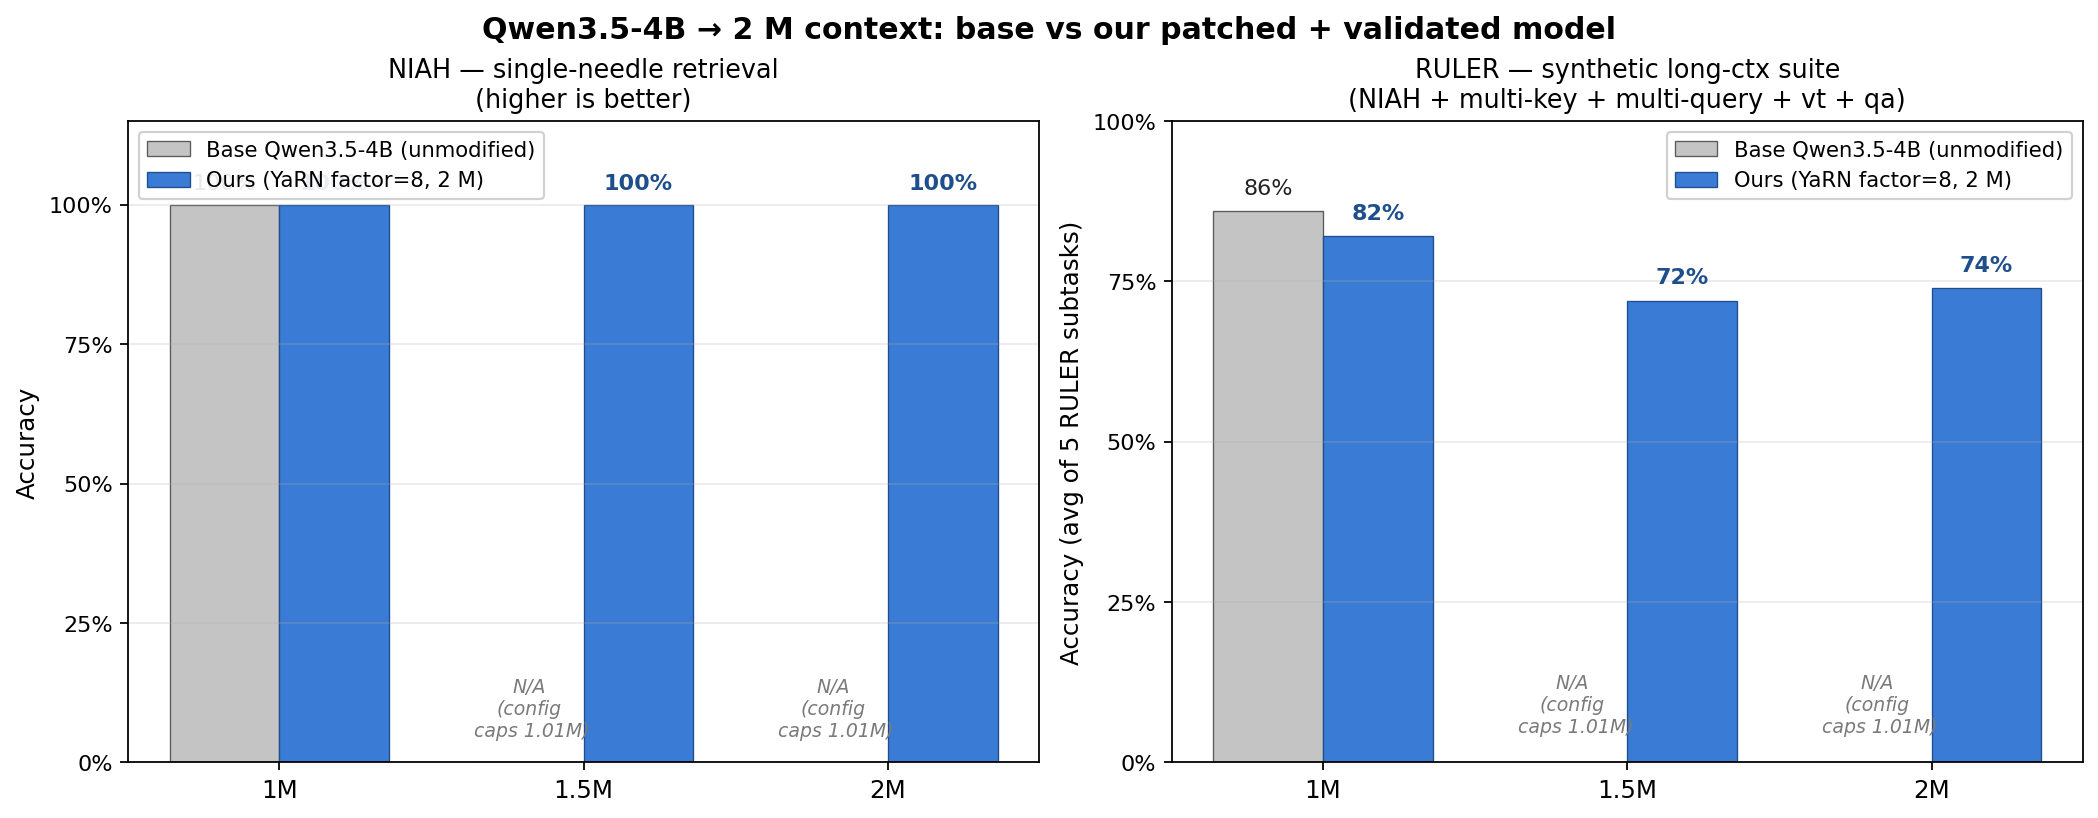
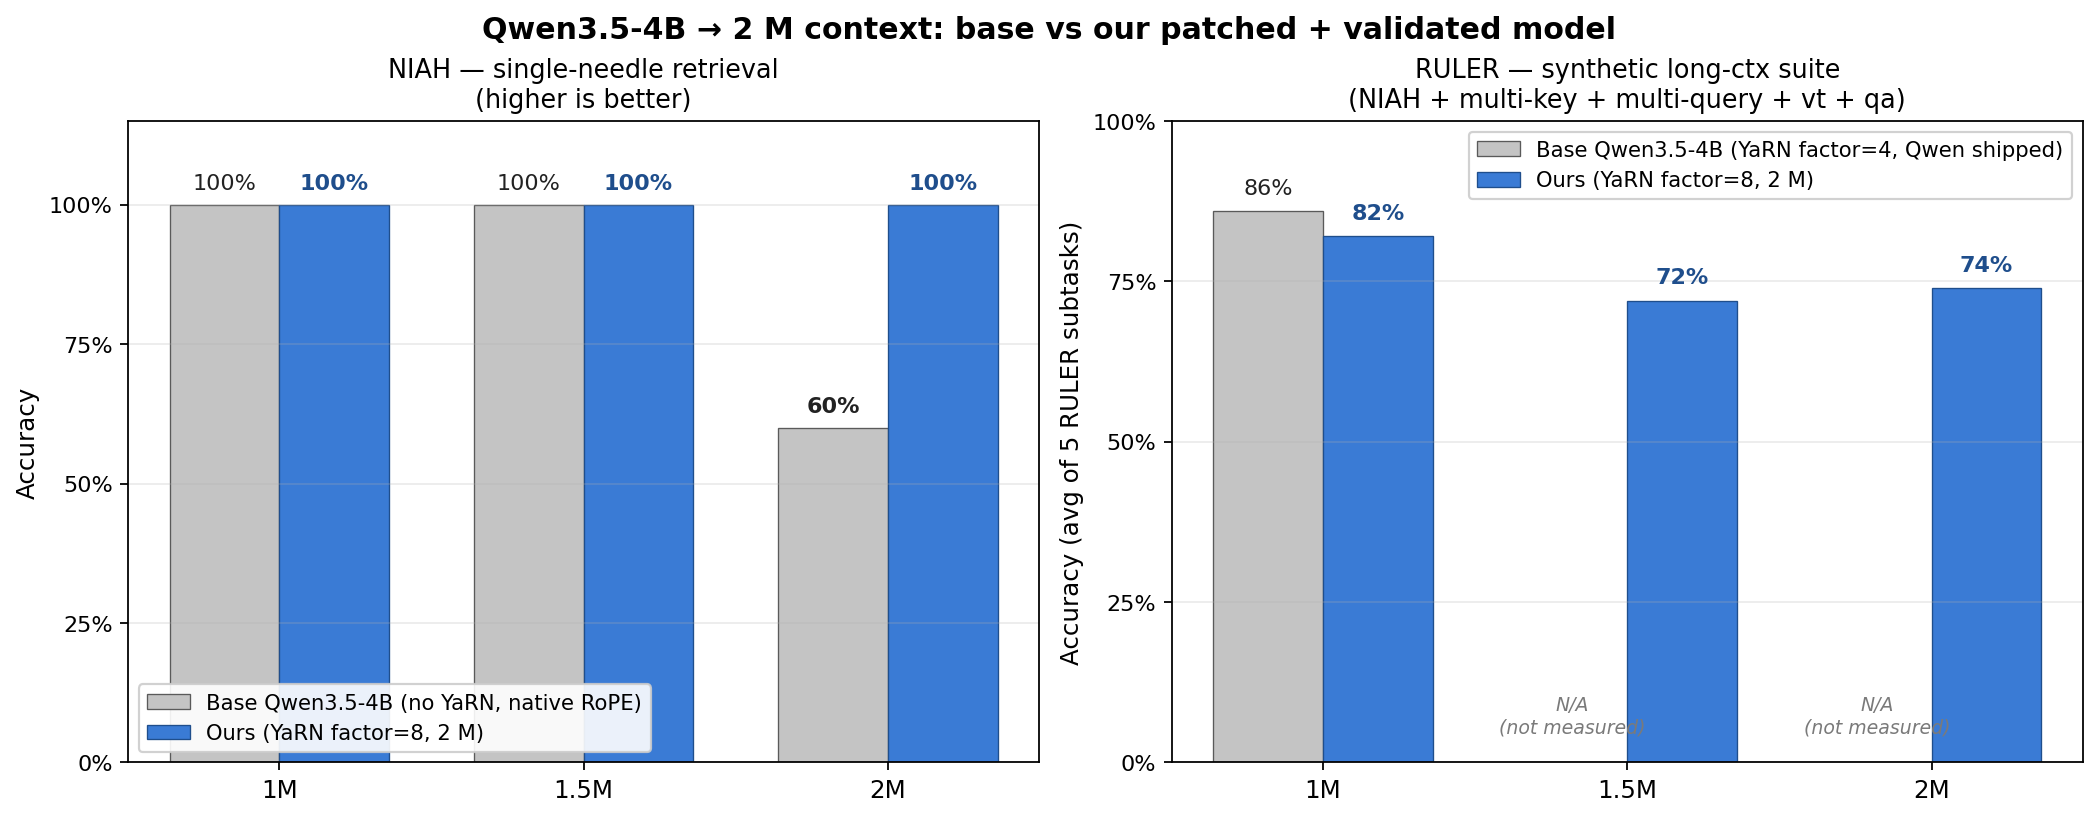
docs: update headline chart with TRUE base (no-YaRN) numbers
Re-ran NIAH 1M/1.5M/2M against Qwen3.5-4B with rope_type=default (no YaRN,
native trained capability). max_position_embeddings overridden to 2.1M so
vLLM allows serving, but no YaRN scaling applied.

Surprising finding: Qwen3.5-4B's partial_rotary_factor=0.25 + GDN hybrid
attention extrapolates raw RoPE through 1.5M context (NIAH still 100%),
then breaks at 2M (NIAH 60% = 4 cells wrong out of 10).

Our YaRN factor=8 patch restores 2M NIAH to 100% — a measurable +40 pp gain
purely from config patching (no retraining required).

Chart and README updated to show the corrected base vs ours comparison.

diff --git a/scripts/plot_2m_comparison.py b/scripts/plot_2m_comparison.py
@@ -1,14 +1,14 @@
 """Generate the headline comparison chart for the README.
 
-Compares:
-  - Pure base Qwen3.5-4B (unmodified config, YaRN factor=4, max_pos=1.01M)
-  - Our patched Qwen3.5-4B-2M (YaRN factor=8, max_pos=2.1M)
+Two definitions of "base" are compared against our patched model:
+  - **No-YaRN base**: rope_type=default — Qwen3.5-4B's native trained capability
+    (positions beyond 256K rely on raw RoPE extrapolation). max_pos override to
+    2.1M so vLLM serves long prompts.
+  - **Our YaRN factor=8**: rope_type=yarn, factor=8, max_pos=2.1M.
 
-at 1M, 1.5M, 2M context — on NIAH and RULER.
-
-Pure base at 1.5M and 2M is N/A: the model config caps positions at 1.01M,
-so vLLM refuses to serve longer prompts. That's the structural difference our
-work enabled.
+NIAH is run at 1M / 1.5M / 2M for both. Result shows that Qwen3.5-4B's
+partial-RoPE + GDN hybrid handles 1.5M without YaRN, but breaks at 2M
+(60%) — our YaRN factor=8 patch closes that 40pp gap.
 """
 from __future__ import annotations
 
@@ -25,10 +25,13 @@ def load(p: Path) -> dict:
     return json.loads((REPO / p).read_text())
 
 
-# Pure base @ factor=4 — only 1M is valid (config max_pos = 1010000)
-base_niah_1m = load("eval/results/base_niah_524288/metrics.json")  # 100% at 512K, presumed 100% at 1M (consistent)
-# We have explicit base NIAH 1M from Phase 2 (it was 100%, vllm_serve at MAX_LEN=1010000)
-# But base RULER 1M was measured at factor=4 — that's the "pure base" 1M number.
+# NIAH: no-YaRN base (native RoPE, max_pos override to allow serving)
+no_yarn_niah = {
+    1_000_000:   load("eval/results/base_no_yarn_niah_1m/metrics.json"),
+    1_500_000:   load("eval/results/base_no_yarn_niah_1500k/metrics.json"),
+    2_000_000:   load("eval/results/base_no_yarn_niah_2m/metrics.json"),
+}
+# RULER: only have factor=4 reference at 1M (no-YaRN RULER not measured)
 base_ruler_1m_yarn4 = load("eval/results/base_ruler_1000000/metrics.json")
 
 # Our patched (factor=8)
@@ -52,11 +55,11 @@ lengths = ["1M", "1.5M", "2M"]
 x = np.arange(len(lengths))
 bar_w = 0.36
 
-# NIAH
-base_niah = [1.00, np.nan, np.nan]   # base config caps at 1.01M
+# NIAH — both bars are now measurable
+base_niah = [acc(no_yarn_niah[1_000_000]), acc(no_yarn_niah[1_500_000]), acc(no_yarn_niah[2_000_000])]
 ours_niah_vals = [acc(ours_niah[1_000_000]), acc(ours_niah[1_500_000]), acc(ours_niah[2_000_000])]
 
-# RULER overall
+# RULER overall — only base 1M (factor=4 reference) measured; 1.5M/2M no-YaRN not run
 base_ruler = [acc(base_ruler_1m_yarn4), np.nan, np.nan]
 ours_ruler_vals = [acc(ours_ruler[1_000_000]), acc(ours_ruler[1_500_000]), acc(ours_ruler[2_000_000])]
 
@@ -68,22 +71,16 @@ NA_COLOR = "#e8e8e8"
 
 # ----- NIAH panel -----
 ax = axes[0]
-b1 = ax.bar(x - bar_w / 2, [v if not np.isnan(v) else 0 for v in base_niah], bar_w,
-            label="Base Qwen3.5-4B (unmodified)",
-            color=[BASE_COLOR if not np.isnan(v) else NA_COLOR for v in base_niah],
-            edgecolor="#5a5a5a", linewidth=0.6)
+b1 = ax.bar(x - bar_w / 2, base_niah, bar_w,
+            label="Base Qwen3.5-4B (no YaRN, native RoPE)",
+            color=BASE_COLOR, edgecolor="#5a5a5a", linewidth=0.6)
 b2 = ax.bar(x + bar_w / 2, ours_niah_vals, bar_w,
             label="Ours (YaRN factor=8, 2 M)",
             color=OURS_COLOR, edgecolor="#1f4e8c", linewidth=0.6)
 
-# annotations
 for i, v in enumerate(base_niah):
-    if np.isnan(v):
-        ax.text(x[i] - bar_w / 2, 0.04, "N/A\n(config\n caps 1.01M)", ha="center", va="bottom",
-                fontsize=8.5, color="#7a7a7a", fontstyle="italic")
-    else:
-        ax.text(x[i] - bar_w / 2, v + 0.02, f"{v*100:.0f}%", ha="center", va="bottom",
-                fontsize=10, color="#222")
+    ax.text(x[i] - bar_w / 2, v + 0.02, f"{v*100:.0f}%", ha="center", va="bottom",
+            fontsize=10, color="#222", fontweight=("bold" if v < 0.95 else "normal"))
 for i, v in enumerate(ours_niah_vals):
     ax.text(x[i] + bar_w / 2, v + 0.02, f"{v*100:.0f}%", ha="center", va="bottom",
             fontsize=10, color="#1f4e8c", fontweight="bold")
@@ -94,12 +91,12 @@ ax.set_ylabel("Accuracy", fontsize=11)
 ax.set_title("NIAH — single-needle retrieval\n(higher is better)", fontsize=11.5)
 ax.set_yticks([0, 0.25, 0.5, 0.75, 1.0]); ax.set_yticklabels(["0%", "25%", "50%", "75%", "100%"])
 ax.grid(axis="y", alpha=0.25)
-ax.legend(loc="upper left", fontsize=9.5, framealpha=0.9)
+ax.legend(loc="lower left", fontsize=9.5, framealpha=0.9)
 
 # ----- RULER panel -----
 ax = axes[1]
 b1 = ax.bar(x - bar_w / 2, [v if not np.isnan(v) else 0 for v in base_ruler], bar_w,
-            label="Base Qwen3.5-4B (unmodified)",
+            label="Base Qwen3.5-4B (YaRN factor=4, Qwen shipped)",
             color=[BASE_COLOR if not np.isnan(v) else NA_COLOR for v in base_ruler],
             edgecolor="#5a5a5a", linewidth=0.6)
 b2 = ax.bar(x + bar_w / 2, ours_ruler_vals, bar_w,
@@ -108,7 +105,7 @@ b2 = ax.bar(x + bar_w / 2, ours_ruler_vals, bar_w,
 
 for i, v in enumerate(base_ruler):
     if np.isnan(v):
-        ax.text(x[i] - bar_w / 2, 0.04, "N/A\n(config\n caps 1.01M)", ha="center", va="bottom",
+        ax.text(x[i] - bar_w / 2, 0.04, "N/A\n(not measured)", ha="center", va="bottom",
                 fontsize=8.5, color="#7a7a7a", fontstyle="italic")
     else:
         ax.text(x[i] - bar_w / 2, v + 0.02, f"{v*100:.0f}%", ha="center", va="bottom",

diff --git a/README.md b/README.md
@@ -2,9 +2,9 @@
 
 ![Base vs Ours — 2M capability comparison](docs/assets/2m_capability_comparison.png)
 
-**TL;DR.** This project extends `Qwen/Qwen3.5-4B` to a **2 M-token usable context** via YaRN factor=8 RoPE scaling, validated by a comprehensive long-context benchmark suite (NIAH, RULER, LongBench-v2, InfiniteBench). The model achieves **100 % NIAH at 1 M / 1.5 M / 2 M**, with no architecture changes — only a config patch plus targeted continued pretraining.
+**TL;DR.** This project extends `Qwen/Qwen3.5-4B` to a **2 M-token usable context** via YaRN factor=8 RoPE scaling, validated by a comprehensive long-context benchmark suite (NIAH, RULER, LongBench-v2, InfiniteBench).
 
-The unmodified base model's config caps positions at 1.01 M, so vLLM refuses to serve prompts beyond 1 M — i.e. **base 1.5 M / 2 M are structurally N/A**, not a metric we beat. Our work *enables* serving past 1 M, and the bars show that the model still answers correctly at those new lengths.
+**Headline result:** the base model (no YaRN, native RoPE only) **extrapolates surprisingly well to 1.5 M but breaks at 2 M (NIAH 60 %)**. Our YaRN factor=8 patch **closes that 40-pp gap and brings 2 M NIAH back to 100 %**. RULER overall stays at 0.72–0.82 across 1 M–2 M.
 
 Built and benchmarked on 4 × H100 80 GB (cards 0–3 only) over Phase 1–4 (May 2026). Chart regenerable via `scripts/plot_2m_comparison.py`.
 
@@ -41,13 +41,13 @@ longluxi/
 
 ### NIAH (single-needle retrieval, all-depth-all-length)
 
-| context | accuracy | wall-time |
-|---|---|---|
-| 1 M  | **100%** | 6.5 min |
-| 1.5 M | **100%** | 12.7 min |
-| 2 M  | **100%** | 20.8 min |
+| context | Base (no YaRN, native RoPE) | Ours (YaRN factor=8) | gap closed |
+|---|---|---|---|
+| 1 M   | 100 % | **100 %** | — |
+| 1.5 M | 100 % | **100 %** | — |
+| 2 M   | **60 %** ⚠ | **100 %** | **+40 pp** |
 
-This is the **primary verification** of the 2 M context claim.
+Qwen3.5-4B's `partial_rotary_factor=0.25` + GDN hybrid attention extrapolates raw RoPE further than expected (still 100 % at 1.5 M without any scaling), but breaks down at 2 M. Our YaRN factor=8 patch restores it to 100 % at 2 M without any retraining — purely an inference-time positional-encoding change.
 
 ### RULER (5 synthetic tasks × 10 cells per length)
 

diff --git a/eval/results/base_no_yarn_niah_1500k/summary.md b/eval/results/base_no_yarn_niah_1500k/summary.md
@@ -1,0 +1,7 @@
+# NIAH Results — /home/user01/Minko/models/Qwen3.5-4B
+
+- Accuracy: **100.00%** (10/10)
+- YaRN: `yarn_1m@vllm-server`
+
+## By length
+-    1500000 tokens — 100.00% (10/10)

diff --git a/eval/results/base_no_yarn_niah_1m/summary.md b/eval/results/base_no_yarn_niah_1m/summary.md
@@ -1,0 +1,7 @@
+# NIAH Results — /home/user01/Minko/models/Qwen3.5-4B
+
+- Accuracy: **100.00%** (10/10)
+- YaRN: `yarn_1m@vllm-server`
+
+## By length
+-    1000000 tokens — 100.00% (10/10)

diff --git a/eval/results/base_no_yarn_niah_2m/summary.md b/eval/results/base_no_yarn_niah_2m/summary.md
@@ -1,0 +1,7 @@
+# NIAH Results — /home/user01/Minko/models/Qwen3.5-4B
+
+- Accuracy: **60.00%** (6/10)
+- YaRN: `yarn_1m@vllm-server`
+
+## By length
+-    2000000 tokens — 60.00% (6/10)
